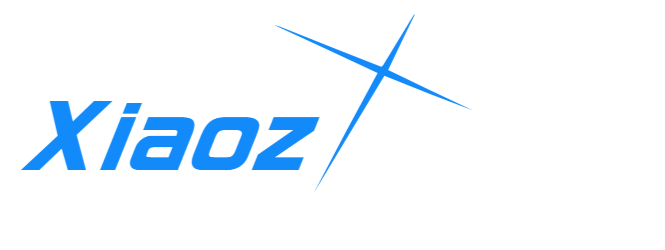
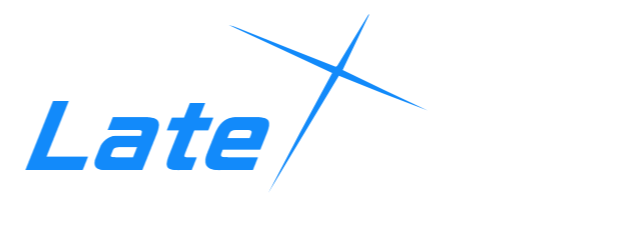
update homepage

Changed region(s): [[0.0306, 0.056, 0.7037, 0.756]]

diff --git a/index.html b/index.html
@@ -2,10 +2,10 @@
 	<head>
 		<meta charset="utf-8">
 		<meta name="viewport" content="width=device-width, initial-scale=1, shrink-to-fit=no">
-		<title>XiaozhiSans | XiaozhiSans的个人主页~</title>
-		<meta name="description" content="这是一个自称「屑 XS」的人的主页">
-		<meta name="keywords" content="屑XS, homepage, 主页, XiaozhiSans, ACG">
-		<link rel="icon" type="image/png" href="https://q.qlogo.cn/headimg_dl?dst_uin=3276839942&spec=1">
+		<title>关于迟梦 | 迟梦的个人主页</title>
+		<meta name="description" content="迟梦的个人的主页">
+		<meta name="keywords" content="XiaozhiSans, LateDream, 迟来的梦, 迟梦">
+		<link rel="icon" type="image/x-icon" href="/favicon.ico">
 		<link rel="preconnect" type="preconnect" href="https://cdn.bootcdn.net/ajax/">
 		<link rel="stylesheet" type="text/css" href="https://cdn.bootcdn.net/ajax/libs/twitter-bootstrap/4.4.1/css/bootstrap.min.css">
 		<link rel="stylesheet" type="text/css" href="https://cdn.bootcdn.net/ajax/libs/font-awesome/6.5.2/css/all.min.css">
@@ -16,22 +16,22 @@
 	</head>
 
 	<body>
-		<img alt="XiaozhiSans" title="XiaozhiSans" class="title-img" src="./static/title.png" draggable="false">
+		<img alt="LateDream" title="LateDream" class="title-img" src="./static/title.png" draggable="false">
 
 		<main class="container">
 			<div class="row my-card justify-content-center">
 				<div class="col-lg-4 photo-bg" onclick=""></div>
 				<div class="col-lg-8 card">
 				<!-- 大标题 -->
-					<h1>XiaozhiSans</h1>
+					<h1>迟来的梦</h1>
 					<!-- 标题下的一段话 -->
-					<p>你好，欢迎访问我的主页 o(￣▽￣)o</p>
+					<p>来之不易的 一定要好好把握</p>
 					<span><a href="https://hitokoto.cn/?uuid=9bd60ed7-e50e-4a00-a07f-b8168e5c3cfb" id="hitokoto_text" title="我的青春恋爱物语果然有问题" target="_blank" rel="noopener noreferrer">孤独的人不会伤害别人，只会不断地伤害自己罢了。</a><a class="icon-btn" href="#refresh_hitokoto" id="refresh_hitokoto" title="再来一句" style="margin-left: 1em;"><i class="fa-solid fa-rotate-right"></i></a></span>
 					<div class="container-fluid">
 						<div class="row">
 							<!-- 导航按钮组 -->
 							<a href="/" target="_blank" rel="noopener noreferrer" class="kz-nav-btn btn btn-primary col-lg-4">
-								<span>屑 XS 的个人博客</span>
+								<span>迟梦阁</span>
 							</a>
 							<a href="https://ba.xsawa.us.kg/" target="_blank" rel="noopener noreferrer" class="kz-nav-btn btn btn-secondary col-lg-4">
 								<span>生成蔚蓝档案标题</span>
@@ -44,14 +44,14 @@
 						</div>
 					</div>
 					<ul class="social mt-1">
-						<li><a title="GitHub" href="https://github.com/XiaozhiSans" target="_blank" rel="noopener noreferrer"><i class="fa-brands fa-github" style="color: black;"></i></a></li>
-						<li><a title="Bilibili" href="https://space.bilibili.com/1988506301" target="_blank" rel="noopener noreferrer"><i class="fa-brands fa-bilibili" style="color: hotpink;"></i></a></li>
+						<li><a title="GitHub" href="https://github.com/iLateDreami" target="_blank" rel="noopener noreferrer"><i class="fa-brands fa-github" style="color: black;"></i></a></li>
+						<li><a title="BiliBili" href="https://space.bilibili.com/1988506301" target="_blank" rel="noopener noreferrer"><i class="fa-brands fa-bilibili" style="color: hotpink;"></i></a></li>
 						<li><a title="QQ" href="https://qm.qq.com/cgi-bin/qm/qr?k=KKfdiq4HiNSB5qO5kMM2g6MJ5deWrh_u" target="_blank" rel="noopener noreferrer"><i class="fa-brands fa-qq" style="color: deepskyblue;"></i></a></li>
 					</ul>
 
 					<footer>
 						<p>
-							Copyright (c) 2024 <a href="https://github.com/XiaozhiSans" target="_blank" rel="noopener noreferrer">XiaozhiSans</a> | <a href="https://music.zhheo.com/?id=9308722369&server=tencent" target="_blank" rel="noopener noreferrer">去听我的歌单</a> | <a href="https://icp.gov.moe/?keyword=20241144" target="_blank" rel="noopener noreferrer">萌ICP备20241144号</a>
+							Copyright (c) 2024 <a href="https://github.com/iLateDreami" target="_blank" rel="noopener noreferrer">LateDream</a> | <a href="https://music.zhheo.com/?id=9308722369&server=tencent" target="_blank" rel="noopener noreferrer">去听我的歌单</a> | <a href="https://icp.gov.moe/?keyword=20241144" target="_blank" rel="noopener noreferrer">萌ICP备20241144号</a>
 							<br>Powered by <a href="https://vercel.com" target="_blank" rel="noopener noreferrer">Vercel</a> | Theme: <a href="https://github.com/kaygb/KZHomePage" target="_blank" rel="noopener noreferrer">KZHomePage</a>(Modified) | 存活时间：<i id="alive-time">Loading...</i>
 						</p>
 					</footer>
@@ -63,13 +63,20 @@
 
 		<meting-js autoplay="false" server="tencent" type="playlist" id="9308722369" order="random" fixed="true" theme="#000"></meting-js>
 
-		<script src="https://cdn.bootcdn.net/ajax/libs/jquery/3.2.1/jquery.min.js"></script>
-		<script type="module" src="https://cdn.bootcdn.net/ajax/libs/popper.js/1.15.0/popper.min.js"></script>
-		<script defer src="https://cdn.bootcdn.net/ajax/libs/twitter-bootstrap/4.4.1/js/bootstrap.min.js"></script>
 		<script type="text/javascript" src="https://cdn.bootcdn.net/ajax/libs/meting/2.0.1/Meting.min.js"></script>
 
 		<script src="./static/main.js"></script>
 		<script type="text/javascript" src="./static/aliveTime.js"></script>
 
+		<script>
+			if(location.hostname === 'xsawa.us.kg' || location.hostname === 'latedream.us.kg') {
+				document.querySelectorAll('script[src^="./"]').forEach(s => {
+					s.src = s.src.replace('./', '/iLateDreami/');
+				});
+				document.querySelectorAll('link[href^="./"]').forEach(l => {
+					l.href = l.href.replace('./', '/iLateDreami/');
+				});
+			}
+		</script>
 	</body>
 </html>

diff --git a/static/misc.css b/static/misc.css
@@ -1,5 +1,5 @@
 @font-face {
-	font-family: "ZCool Regular";
+	font-family: "ZCool Happy";
 	src: url('./站酷快乐体2020修订版1.woff2') format('woff2');
 }
 @keyframes rotate {
@@ -40,7 +40,7 @@ a:visited {
 	color: #ff6;
 }
 body {
-	font-family: "ZCool Regular", sans-serif;
+	font-family: "ZCool Happy", sans-serif;
 }
 h1, h2, h3, h4, h5, h6 {
 	font-weight: bold;

diff --git a/static/main.js b/static/main.js
@@ -1,6 +1,6 @@
 console.log(
   `
-  %c KZHomePage v1.2.0 Modified by XiaozhiSans %c https://xsawa.us.kg/XiaozhiSans/
+  %c KZHomePage v1.2.0 Modified by LateDream %c https://latedream.us.kg/LateDream/
 `,
     "color: #fff; background: #fd79a8; padding: 5px 0;",
     "background: #fff; padding: 5px 0;"
